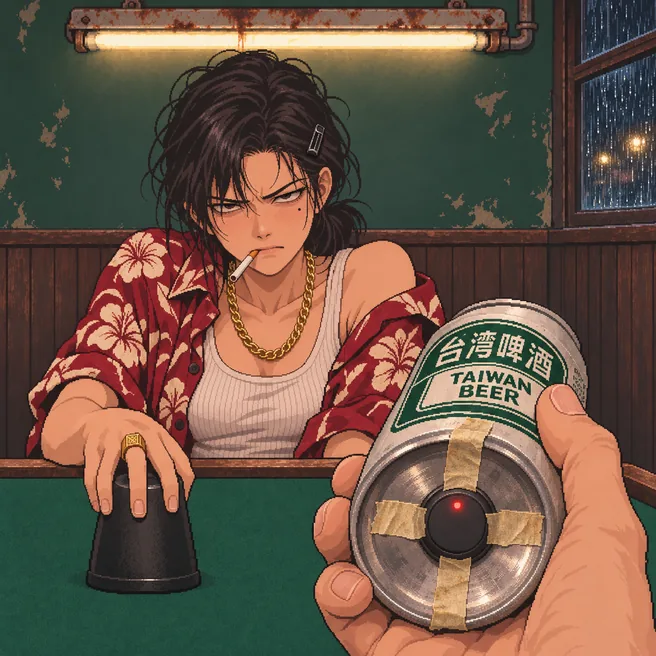
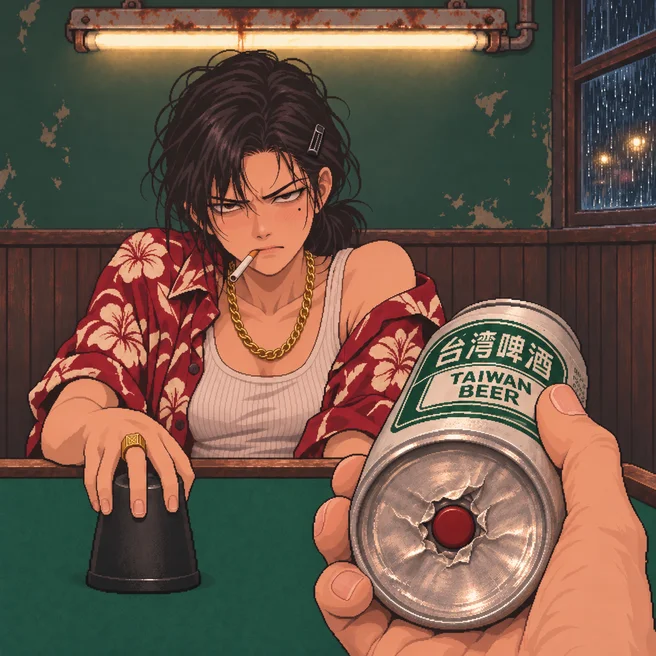
結局卡滿版一句一句點、心聲斜體、說話標名字、罐底改鋁箔紙夾層

diff --git a/index.html b/index.html
@@ -31,7 +31,8 @@ button:focus-visible { outline: 2px solid var(--brass); outline-offset: 2px; }
 .talk p { margin: 0; }
 .talk .tell { color: var(--clue); font-size: .92rem; }
 .talk .act { color: var(--muted); font-size: .92rem; }
-.talk .mind { color: #e8c98a; font-size: .95rem; }  /* 主角的心聲 */
+.talk .mind { color: #e8c98a; font-size: .95rem; font-style: italic; }  /* 主角的心聲 */
+.talk .say { color: var(--ink); font: 700 1rem/1.5 var(--display); }  /* 說出口的話（「」開頭）：白色粗明體；沒有「」的敘述改灰綠，跟話分開 */
 
 .scene { position: relative; width: 100%; aspect-ratio: 1; border-radius: 8px; overflow: hidden; background: #000; }
 .scene canvas { width: 100%; height: 100%; display: block; }
@@ -115,20 +116,37 @@ button:focus-visible { outline: 2px solid var(--brass); outline-offset: 2px; }
 @keyframes popio { 0% { opacity: 0; transform: translate(-50%, -50%) scale(.6); } 12% { opacity: 1; transform: translate(-50%, -50%) scale(1.06); } 20% { transform: translate(-50%, -50%) scale(1); } 80% { opacity: 1; } 100% { opacity: 0; transform: translate(-50%, -50%) scale(.97); } }
 @media (prefers-reduced-motion: reduce) { .pop { animation: popfade 2s linear forwards; } @keyframes popfade { 0%, 80% { opacity: 1; } 100% { opacity: 0; } } }
 /* 字卡（B 版：第一層進第二層時，主角心聲跳一張卡，點一下關掉） */
-.titlecard { position: fixed; inset: 0; z-index: 40; display: grid; place-items: center; background: rgba(4, 14, 10, .82); padding: 24px; animation: tcin .4s ease-out; cursor: pointer; }
-.titlecard > div { max-width: 420px; border: 2px solid #e8c98a; border-radius: 14px; background: rgba(6, 22, 16, .96); padding: 22px 22px 14px; display: flex; flex-direction: column; gap: 14px; box-shadow: 0 10px 40px rgba(0,0,0,.6); }
-.titlecard p { margin: 0; color: #e8c98a; font: 700 1.15rem/1.65 var(--display); }
-.titlecard small { color: var(--muted); text-align: center; font-size: .78rem; }
-.titlecard p.act { color: var(--ink); font: 400 1rem/1.7 var(--body); }
-.titlecard p.line { color: var(--ink); font: 700 1.05rem/1.6 var(--display); }
-.titlecard .choices { display: grid; gap: 10px; margin-top: 4px; }
-.titlecard .choices button { border: 2px solid var(--brass); background: rgba(0,0,0,.25); color: var(--ink); border-radius: 12px; padding: 12px 10px; font: 900 1.05rem/1.3 var(--display); letter-spacing: .05em; }
+.titlecard { position: fixed; inset: 0; z-index: 40; display: grid; place-items: center; background: rgba(4, 14, 10, .82); padding: max(12px, env(safe-area-inset-top, 0px)) 14px max(12px, env(safe-area-inset-bottom, 0px)); animation: tcin .4s ease-out; cursor: pointer; }
+.titlecard > div { width: 100%; max-width: 420px; border: 2px solid #e8c98a; border-radius: 14px; background: rgba(6, 22, 16, .96); padding: 16px 16px 12px; display: flex; flex-direction: column; gap: 10px; box-shadow: 0 10px 40px rgba(0,0,0,.6); }
+/* 2026-11-09 三種聲音分開：心聲（括號）＝暖金色細字；旁白／提示＝灰綠小字；說出口的話＝白色粗明體，前面標誰說的 */
+.titlecard p { margin: 0; color: #e8c98a; font: italic 400 1rem/1.65 var(--body); }  /* 心聲：斜體（2026-11-09 使用者定） */
+.titlecard small { color: var(--muted); text-align: center; font-size: .75rem; }
+.titlecard p.act { color: var(--muted); font: 400 .9rem/1.65 var(--body); }
+.titlecard p.line, .titlecard p.you { color: var(--ink); font: 700 1.12rem/1.55 var(--display); }
+.titlecard .spk { display: inline-block; vertical-align: .15em; margin-right: 8px; padding: 0 7px; border-radius: 5px; background: var(--brass); color: var(--felt-lo); font: 700 .68rem/1.6 var(--body); letter-spacing: .12em; }
+.titlecard p.you .spk { background: var(--clue); }
+.titlecard .choices { display: grid; gap: 8px; margin-top: 2px; position: sticky; bottom: -12px; padding: 6px 0 12px; margin-bottom: -12px; background: rgba(6, 22, 16, .98); }  /* 選項黏在卡片底部，內容再長也看得到兩個按鈕 */
+.titlecard .choices button { border: 2px solid var(--brass); background: rgba(0,0,0,.25); color: var(--ink); border-radius: 12px; padding: 10px; font: 900 1.02rem/1.3 var(--display); letter-spacing: .05em; }
 .titlecard.choose { cursor: default; }
 .titlecard.chain { animation: none; }            /* 接續的字卡：背景不再淡入，免得兩張之間露出遊戲畫面閃一下 */
 .titlecard.chain > div { animation: tcin .3s ease-out; }
-.titlecard > div { max-height: calc(100dvh - 48px); overflow-y: auto; }
-.titlecard img.tcimg { width: 100%; max-height: 42dvh; object-fit: cover; border-radius: 8px; display: block; flex: none; }
+.titlecard > div { max-height: calc(100dvh - 24px); overflow-y: auto; }
+.titlecard img.tcimg { width: 100%; max-height: 30dvh; object-fit: cover; border-radius: 8px; display: block; flex: none; }
 @keyframes tcin { from { opacity: 0; } to { opacity: 1; } }
+/* 結局劇情卡：滿版，圖吃掉上面剩下的高度，文字區固定高度一句一句換 */
+.titlecard.storycard { padding: 0; place-items: stretch center; }
+.titlecard.storycard > div.story { width: 100%; max-width: 480px; height: 100dvh; max-height: none; overflow: hidden; border: 0; border-radius: 0; box-shadow: none; background: rgba(6, 22, 16, .98); padding: max(12px, env(safe-area-inset-top, 0px)) 16px max(14px, env(safe-area-inset-bottom, 0px)); gap: 14px; justify-content: center; }  /* 圖、字、按鈕整組置中，字貼著圖 */
+.story img.tcimg { flex: none; width: 100%; height: auto; max-height: 58dvh; object-fit: cover; border-radius: 10px; }  /* 圖照原比例放滿寬，不裁掉兩邊 */
+.story-text { flex: none; min-height: 6.6em; display: flex; align-items: center; }
+.story-text p { animation: linein .35s ease-out; font-size: 1.08rem; }
+.story-text p.act { font-size: 1rem; }
+.story-text p.line, .story-text p.you { font-size: 1.2rem; }
+@keyframes linein { from { opacity: 0; transform: translateY(6px); } to { opacity: 1; transform: none; } }
+.story-tail { flex: none; display: flex; flex-direction: column; align-items: center; gap: 6px; min-height: 40px; justify-content: flex-end; }
+.story-tail .choices { position: static; width: 100%; margin: 0; padding: 0; background: none; animation: linein .35s ease-out; }
+.story-tail .dots { display: flex; gap: 6px; }
+.story-tail .dots i { width: 6px; height: 6px; border-radius: 50%; background: var(--brass-dim); opacity: .5; }
+.story-tail .dots i.on { background: #e8c98a; opacity: 1; }
 /* 抉擇階段的外框閃爍 */
 .scene.watch { animation: watchblink 1.2s ease-in-out infinite; }
 @keyframes watchblink { 0%, 100% { box-shadow: 0 0 0 3px var(--clue), 0 0 16px rgba(143,195,214,.55); } 50% { box-shadow: 0 0 0 3px rgba(143,195,214,0), 0 0 0 rgba(143,195,214,0); } }
@@ -874,15 +892,41 @@ button:focus-visible { outline: 2px solid var(--brass); outline-offset: 2px; }
       const g0 = G, n = G.round; setTimeout(() => { if (G === g0 && G.round === n && (G.phase === "result" || G.phase === "endwait")) settle(); }, 1600);
     } else settle();
   }
-  const cardLine = (x) => typeof x === "string" ? el("p", {}, x) : el("p", { class: x.c }, x.t);
+  // 字卡一行：字串＝心聲；act＝旁白；line＝木子說的；you＝你說的（後兩種前面標名字）
+  const cardLine = (x) => typeof x === "string" ? el("p", {}, x)
+    : x.c === "line" || x.c === "you" ? el("p", { class: x.c }, el("span", { class: "spk" }, x.c === "you" ? "你" : "木子"), x.t)
+    : el("p", { class: x.c }, x.t);
   const cardImg = (name) => name ? el("img", { class: "tcimg", src: IMG + name + ".webp", alt: "" }) : null;
+  // 2026-11-09 結局劇情卡（有圖的）：滿版，圖固定在上面，文字一句一句點下去輪播，最後一句才出按鈕
+  function storyCard(lines, pic, { after, foot, options, chain } = {}) {
+    if (fast()) { if (options) options[0].fn(); else if (after) after(); return; }
+    let i = 0;
+    const text = el("div", { class: "story-text" }), tail = el("div", { class: "story-tail" });
+    const c = el("div", { class: "titlecard storycard" + (chain ? " chain" : ""), role: "dialog", onclick: () => step() },
+      el("div", { class: "story" }, cardImg(pic), text, tail));
+    const last = () => i >= lines.length - 1;
+    const dots = () => el("span", { class: "dots" }, ...lines.map((_, n) => el("i", { class: n === i ? "on" : "" })));
+    function show() {
+      text.replaceChildren(cardLine(lines[i]));
+      if (last() && options) { c.classList.add("choose"); tail.replaceChildren(el("div", { class: "choices" }, ...options.map((o) => el("button", { onclick: (e) => { e.stopPropagation(); c.remove(); o.fn(); } }, o.label)))); }
+      else tail.replaceChildren(dots(), el("small", {}, last() ? (foot || "點一下繼續") : "點一下繼續"));
+    }
+    function step() {
+      if (!last()) { i += 1; show(); return; }
+      if (options) return;  // 最後一句：一定要選
+      c.remove(); if (after) after();
+    }
+    show(); document.body.append(c);
+  }
   function showTitleCard(lines, after, foot, pic, chain) {
+    if (pic) return storyCard(lines, pic, { after, foot, chain });
     if (fast()) { if (after) after(); return; }
     const c = el("div", { class: "titlecard" + (chain ? " chain" : ""), role: "dialog", onclick: () => { c.remove(); if (after) after(); } }, el("div", {}, cardImg(pic), ...lines.map(cardLine), el("small", {}, foot || "點一下繼續")));
     document.body.append(c);
   }
   // 選項字卡：點背景不會關，一定要選一個
   function showChoiceCard(lines, options, pic, chain) {
+    if (pic) return storyCard(lines, pic, { options, chain });
     if (fast()) { options[0].fn(); return; }
     const c = el("div", { class: "titlecard choose" + (chain ? " chain" : ""), role: "dialog" }, el("div", {}, cardImg(pic), ...lines.map(cardLine),
       el("div", { class: "choices" }, ...options.map((o) => el("button", { onclick: () => { c.remove(); o.fn(); } }, o.label)))));
@@ -1111,7 +1155,9 @@ button:focus-visible { outline: 2px solid var(--brass); outline-offset: 2px; }
 
   function renderTalk() {
     const lines = el("div", { class: "lines" });
-    G.lines.slice(-3).forEach((l) => lines.append(el("p", { class: l.c }, l.t)));
+    // 2026-11-09：牌桌上「line」同時裝了敘述跟木子的話，分不出來 → 「」開頭的算說話，其他算旁白（說明頁照舊）
+    const cls = (l) => l.c !== "line" || G.phase === "intro" ? l.c : String(l.t).startsWith("「") ? "say" : "act";
+    G.lines.slice(-3).forEach((l) => lines.append(el("p", { class: cls(l) }, l.t)));
     if (G.note && (G.phase === "result" || G.phase === "endwait")) lines.append(el("p", { class: "act" }, G.note));
     // 說明時：右上角「N / 16 下一步」；「跳過說明」放最下面一排正中間（2026-11-09 使用者加跳過，按了直接坐下開始玩）
     const tab = G.phase === "intro" && fullIntro() && G.introIdx < INTRO.length - 1
@@ -1250,7 +1296,7 @@ button:focus-visible { outline: 2px solid var(--brass); outline-offset: 2px; }
   const ENDINGS = {
     pay: { hold: "expr-nostalgia", pic: "end-pay", lines: [
       { c: "act", t: "你鬆開她的手腕。" },
-      { c: "line", t: "「賠錢，這件事就到這裡。」" },
+      { c: "you", t: "「賠錢，這件事就到這裡。」" },
       { c: "act", t: "木子沒說話，從抽屜裡數出一疊籌碼推過來，比你押的還多。" },
       { c: "line", t: "「……算你有良心。」" },
       { c: "act", t: "她把骰盅收回抽屜，盅底朝下，放得很慢。" },
@@ -1258,9 +1304,9 @@ button:focus-visible { outline: 2px solid var(--brass); outline-offset: 2px; }
     ] },
     expose: { hold: "hand-grab-shamed", pic: "end-expose", lines: [
       { c: "act", t: "你沒有鬆手，抓著她的手腕舉起來，對整間麻將館喊。" },
-      { c: "line", t: "「大家看清楚，她的右手！」" },
+      { c: "you", t: "「大家看清楚，她的右手！」" },
       { c: "act", t: "洗牌聲一桌一桌停下來。有人站起來，有人趕快把剛贏的錢塞回口袋。" },
-      { c: "act", t: "你把那罐台啤翻過來，讓所有人看罐底那顆按鈕，再按一下。天花板的燈管閃了。" },
+      { c: "act", t: "你把那罐台啤翻過來，讓所有人看鋁箔紙底下那顆按鈕，再按一下。天花板的燈管閃了。" },
       { c: "line", t: "「……你滿意了？」" },
     ], next: { pic: "end-cloth", lines: [
       { c: "act", t: "隔天晚上，麻將館照樣客滿，洗牌聲沒停過。" },
@@ -1281,7 +1327,7 @@ button:focus-visible { outline: 2px solid var(--brass); outline-offset: 2px; }
       showTitleCard([{ c: "act", t: "她桌上的籌碼一個都不剩。她把空盅推給你。" }, { c: "line", t: "「……明天再來。」" }, { c: "act", t: money }], again, "點一下再賭一局"); return;
     }
     // 啤酒罐上的閃燈按鈕：說明和提示都不講，破關這裡才揭露（2026-11-09 使用者定）
-    showChoiceCard(["（抓到了。燈暗下去的那一下，她的右手就扶在盅上。）", "（我拿起她那罐台啤。罐底黏著一顆小小的無線按鈕。）", "（她舉罐喝酒時，拇指偷按一下，天花板那根燈管就閃。有時候是真的要動手，有時候只是在騙我。）", { c: "act", t: "接下來，你要怎麼做？" }], [
+    showChoiceCard(["（抓到了。燈暗下去的那一下，她的右手就扶在盅上。）", "（我拿起她那罐台啤翻過來。罐底貼了一層鋁箔紙，撕開，底下夾著一顆小小的無線按鈕。）", "（她舉罐喝酒時，拇指偷按一下，天花板那根燈管就閃。有時候是真的要動手，有時候只是在騙我。）", { c: "act", t: "接下來，你要怎麼做？" }], [
       { label: "讓她賠錢了事", fn: () => ending("pay") },
       { label: "把她的手法公諸於世", fn: () => ending("expose") },
     ], "end-reveal");
@@ -1387,7 +1433,7 @@ button:focus-visible { outline: 2px solid var(--brass); outline-offset: 2px; }
     requestAnimationFrame(loop);
     ["end-reveal", "end-pay", "end-expose", "end-cloth"].forEach((n) => { const i = new Image(); i.src = IMG + n + ".webp"; });  // 結尾圖背景預載
     window.__G = () => G;
-    window.__B = { record: (fail) => showRecord(fail), run: () => RUN, wallet: (n) => { if (n != null) { wallet = n; saveWallet(); } return wallet; }, layer: () => layer, setLayer: (n) => { layer = n; saveLayer(); }, zoom: () => zoomLevel(performance.now()), S: () => S };
+    window.__B = { record: (fail) => showRecord(fail), endCard: () => endCard(), run: () => RUN, wallet: (n) => { if (n != null) { wallet = n; saveWallet(); } return wallet; }, layer: () => layer, setLayer: (n) => { layer = n; saveLayer(); }, zoom: () => zoomLevel(performance.now()), S: () => S };
     window.__fn = { newRound, placeBet, openCup, grab, swap, swapStop, swapZones, fresh: () => { G = fresh(); }, setX: (x) => { G.swapT0 = performance.now() - x / swapZones().speed * 1000; } };
   }
   boot();
